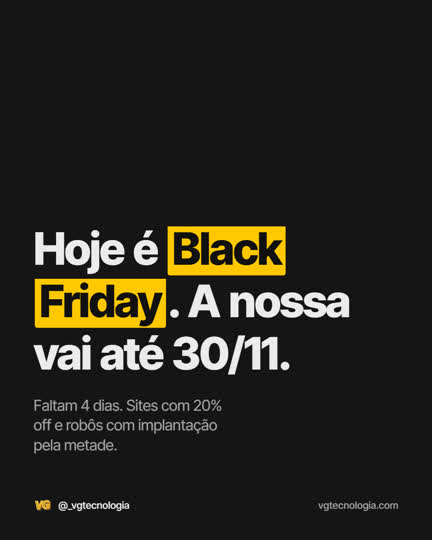
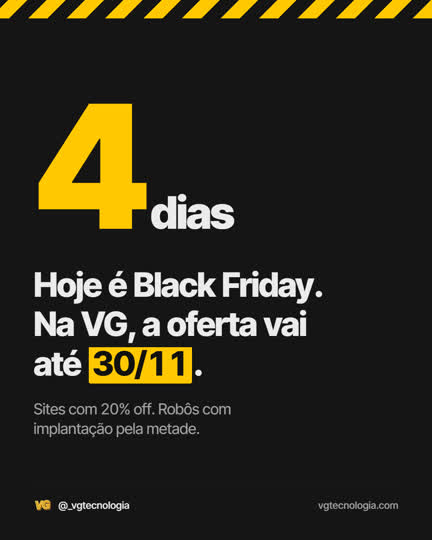
Horário por post (9h, 12h, 18h): segundo post do dia sai às 18h e a contagem da Black às 9h do lançamento
27/11 vira contagem "4 dias" com frase mais clara.

Changed region(s): [[0.0602, 0.1778, 0.8125, 0.7111], [0.0, 0.0, 1.0, 0.0593], [0.0602, 0.7407, 0.5417, 0.8593]]

diff --git a/GUIA.md b/GUIA.md
@@ -60,7 +60,7 @@ Pesquise na web, em português:
 
 ## Formato dos arquivos
 
-Um arquivo por dia: `posts/AAAA-MM-DD.json` (dois no mesmo dia: `AAAA-MM-DD-1.json`, `-2`).
+Um arquivo por dia: `posts/AAAA-MM-DD.json` (dois no mesmo dia: `AAAA-MM-DD-1.json`, `-2`). Campo opcional `hora` (9, 12 ou 18; padrão 12): o post sai nesse horário de Brasília. O Instagram não pune mais de um post por dia, mas posts no mesmo dia devem sair espaçados (o segundo às 18h) e nunca ser parecidos entre si.
 
 ```json
 {
